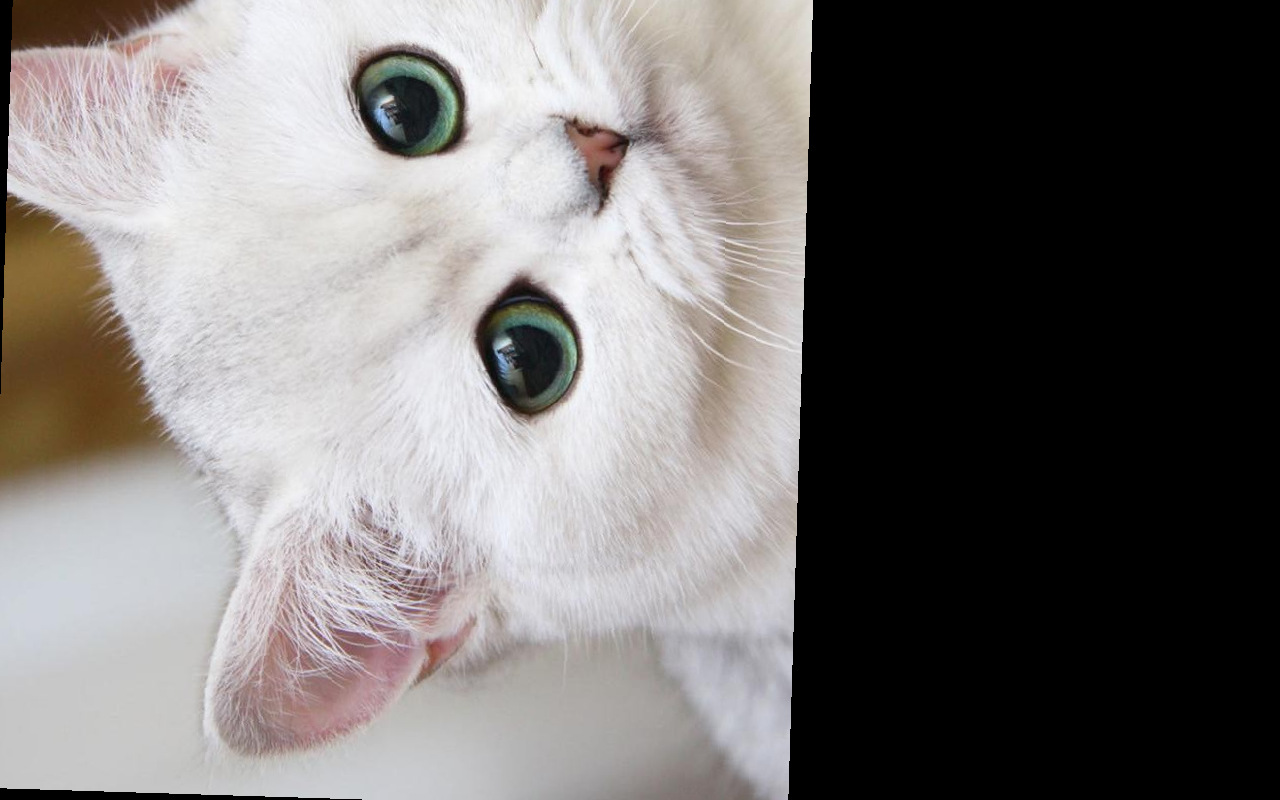
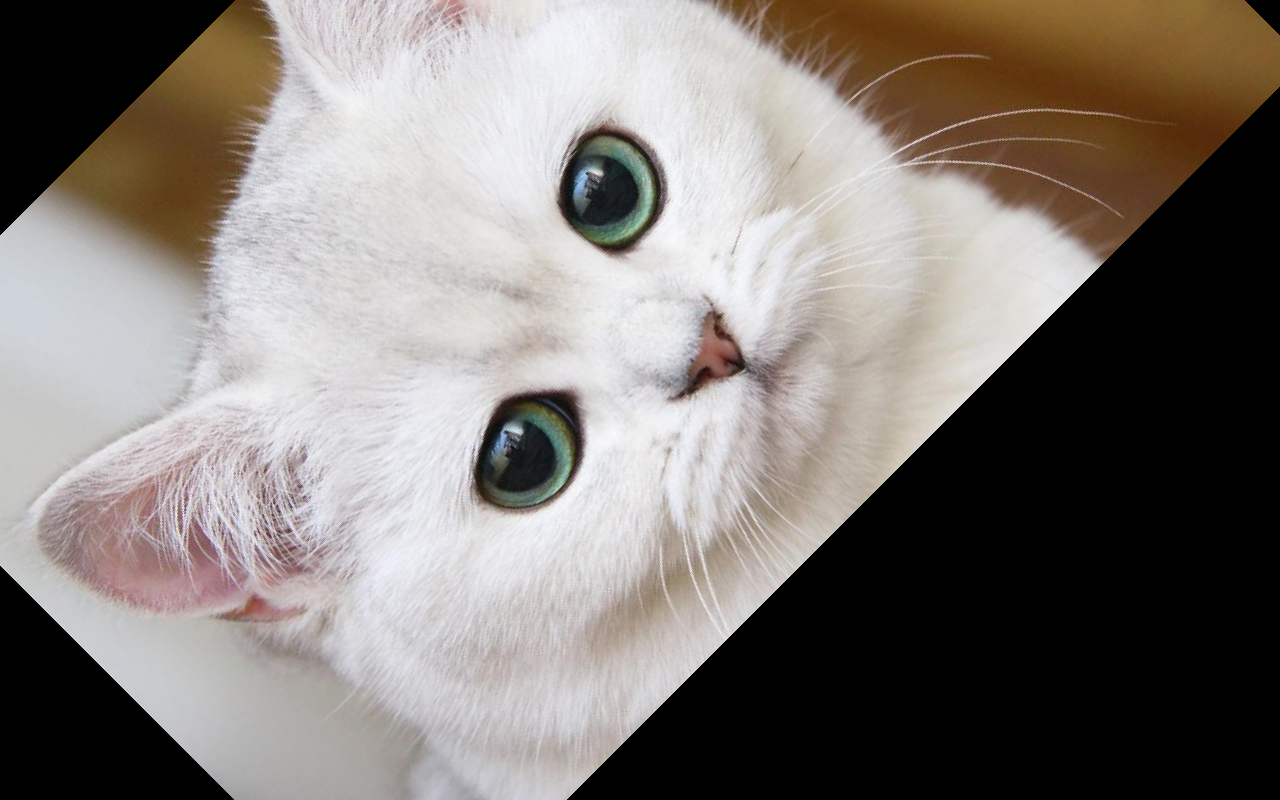
up

diff --git a/Practice1/main.cpp b/Practice1/main.cpp
@@ -12,23 +12,25 @@
 #include "SobelFilter.h"
 #include "SharpFilter.h"
 #include "TurnFilter.h"
+#include "ShiftFilter.h"
 #include "BlurFilter.h"
 #include "GaussianBlurFilter.h"
 #include "GrayScaleFilter.h"
 #include "InversionFilter.h"
-
+#include "EmbossingFilter.h"
 
 int main(int argc, char* argv[])
 {
     std::string path;
     QImage image;
 
-    TurnFilter turn_filter(90);
+    TurnFilter turn_filter(45);
     BlurFilter blur_filter(3);
     GaussianBlurFilter gaussian_blur_filter(3, 2);
     SobelFilter sobel_filter;
     SharpFilter sharp_filter;
-    
+    EmbossingFilter embrosing_filter;
+
 
         for (int i = 0; i < argc; i++)
         {
@@ -50,6 +52,8 @@ int main(int argc, char* argv[])
     std::cout << "Brightered" << std::endl;
     QImage turned_image = turn_filter.calculateNewImagePixMap(image);
     std::cout << "Turned" << std::endl;
+    QImage shifted_image = ShiftFilter::calculateNewImagePixMap(image);
+    std::cout << "Shifted" << std::endl;
     QImage blurred_image = blur_filter.calculateNewImagePixMap(image);
     std::cout << "Blured" << std::endl;
     QImage gaussed_image = gaussian_blur_filter.calculateNewImagePixMap(image);
@@ -58,7 +62,8 @@ int main(int argc, char* argv[])
     std::cout << "Sobeled" << std::endl;
     QImage sharped_image = sharp_filter.calculateNewImagePixMap(image);
     std::cout << "Sharped" << std::endl;
-
+    QImage embrosed_image = embrosing_filter.calculateNewImagePixMap(image);
+    std::cout << "Embrosed" << std::endl;
 
 
 
@@ -67,8 +72,10 @@ int main(int argc, char* argv[])
     sepied_image.save("Output/Sepied.png");
     brighter_image.save("Output/Brighter.png");
     turned_image.save("Output/Turned.png");
+    shifted_image.save("Output/Shifted.png");
     blurred_image.save("Output/Blurred.png");
     gaussed_image.save("Output/Gaussed.png");
     sobeled_image.save("Output/Sobeled.png");
     sharped_image.save("Output/Sharped.png");
+    embrosed_image.save("Output/Embrosed.png");
 }

diff --git a/Practice1/ShiftFilter.cpp b/Practice1/ShiftFilter.cpp
@@ -1,18 +1,11 @@
-#include "TurnFilter.h"
+#include "ShiftFilter.h"
 
-constexpr double PI = 3.1415926535897932384626433832795;
+constexpr int SHIFT_STEP = 32;
 
 
-TurnFilter::TurnFilter(double angle_)
-{
-    angle = angle_ * PI / 180;
-}
-
-QImage TurnFilter::calculateNewImagePixMap(const QImage& image)
+QImage ShiftFilter::calculateNewImagePixMap(const QImage& image)
 {
     QImage result(image);
-    double center_x = image.height() / 2;
-    double center_y = image.height() / 2;
 
     for (int x = 0; x < image.width(); x++)
     {
@@ -20,8 +13,8 @@ QImage TurnFilter::calculateNewImagePixMap(const QImage& image)
         {
             double source_x, source_y;
 
-            source_x = (x - center_x) * cos(angle) - (y - center_y) * sin(angle) + center_x;
-            source_y = (x - center_x) * sin(angle) + (y - center_y) * cos(angle) + center_y;
+            source_x = x + SHIFT_STEP;
+            source_y = y;
 
             QColor image_color;
             if ((source_x < image.width()) && (source_x > 0) && (source_y < image.height()) && (source_y > 0))

diff --git a/Practice1/EmbossingFilter.cpp b/Practice1/EmbossingFilter.cpp
@@ -1,0 +1,31 @@
+#include "EmbossingFilter.h"
+
+constexpr int BRIGHNESS_COEF = 32;
+
+
+EmbossingFilter::EmbossingFilter()
+{
+    vector = new float[9]{ 0, 1, 0, 1, 0, -1, 0, -1, 0 };
+}
+
+QColor EmbossingFilter::calculateNewPixelColor(const QImage& image, int x, int y)
+{
+    int result_r = 0, result_g = 0, result_b = 0, intensity;
+    int size = 2 * radius + 1;
+
+    for (int i = -radius; i <= radius; i++)
+        for (int j = -radius; j <= radius; j++)
+        {
+            int index = (i + radius) * size + j + radius;
+
+            QColor color = image.pixelColor(clamp(x + j, image.width() - 1, 0), clamp(y + i, image.height() - 1, 0));
+
+            result_r += color.red() * vector[index];
+            result_g += color.green() * vector[index];
+            result_b += color.blue() * vector[index];
+        }
+
+    intensity = 0.36 * (result_r + BRIGHNESS_COEF) + 0.53 * (result_g + BRIGHNESS_COEF) + 0.11 * (result_b + BRIGHNESS_COEF);
+
+    return QColor(clamp(intensity, 255, 0), clamp(intensity, 255, 0), clamp(intensity, 255, 0));
+}

diff --git a/Practice1/MatrixFilter.h b/Practice1/MatrixFilter.h
@@ -13,5 +13,5 @@ public:
     ~MatrixFilter() { delete[] vector; };
 
     QImage calculateNewImagePixMap(const QImage& image);
-    QColor calculateNewPixelColor(const QImage& image, int x, int y);
+    virtual QColor calculateNewPixelColor(const QImage& image, int x, int y);
 };

diff --git a/Practice1/EmbossingFilter.h b/Practice1/EmbossingFilter.h
@@ -1,0 +1,14 @@
+#pragma once
+
+#include "MatrixFilter.h"
+
+
+class EmbossingFilter : public MatrixFilter
+{
+public:
+    EmbossingFilter();
+    ~EmbossingFilter() = default;
+
+    QColor calculateNewPixelColor(const QImage& image, int x, int y);
+};
+

diff --git a/Practice1/ShiftFilter.h b/Practice1/ShiftFilter.h
@@ -1,0 +1,14 @@
+#pragma once
+
+#include "Filter.h"
+
+
+class ShiftFilter : public Filter
+{
+public:
+    ShiftFilter() = default;
+    ~ShiftFilter() = default;
+
+    static QImage calculateNewImagePixMap(const QImage& image);
+};
+
